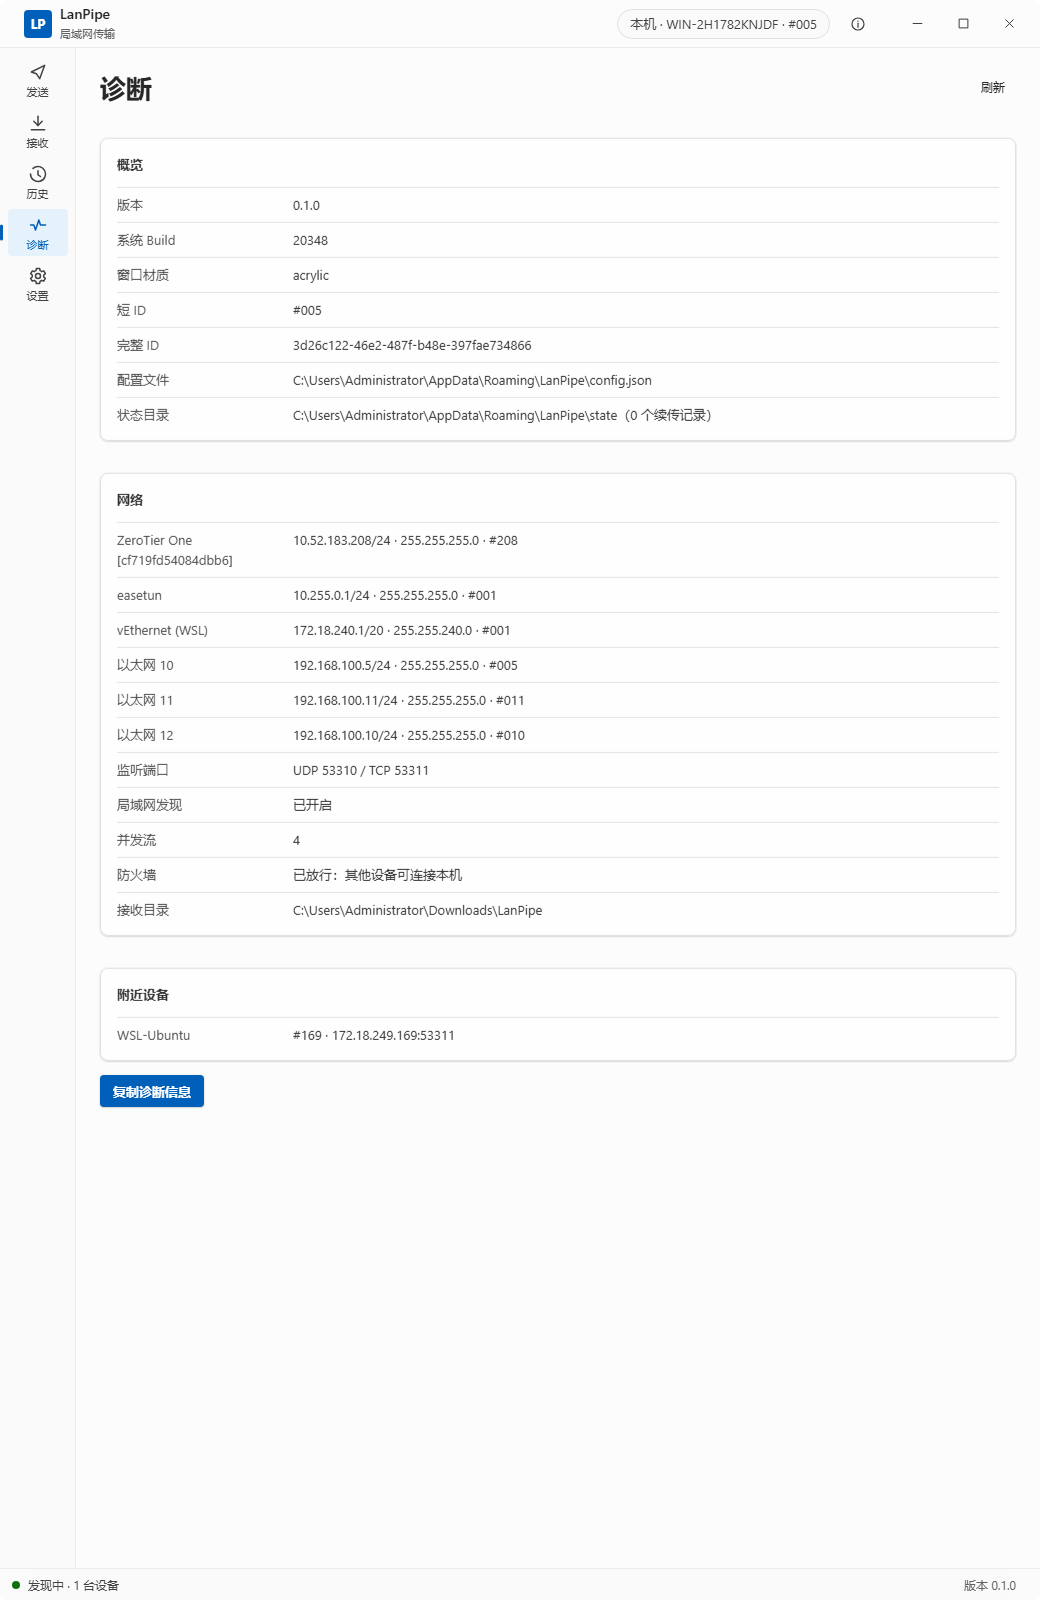
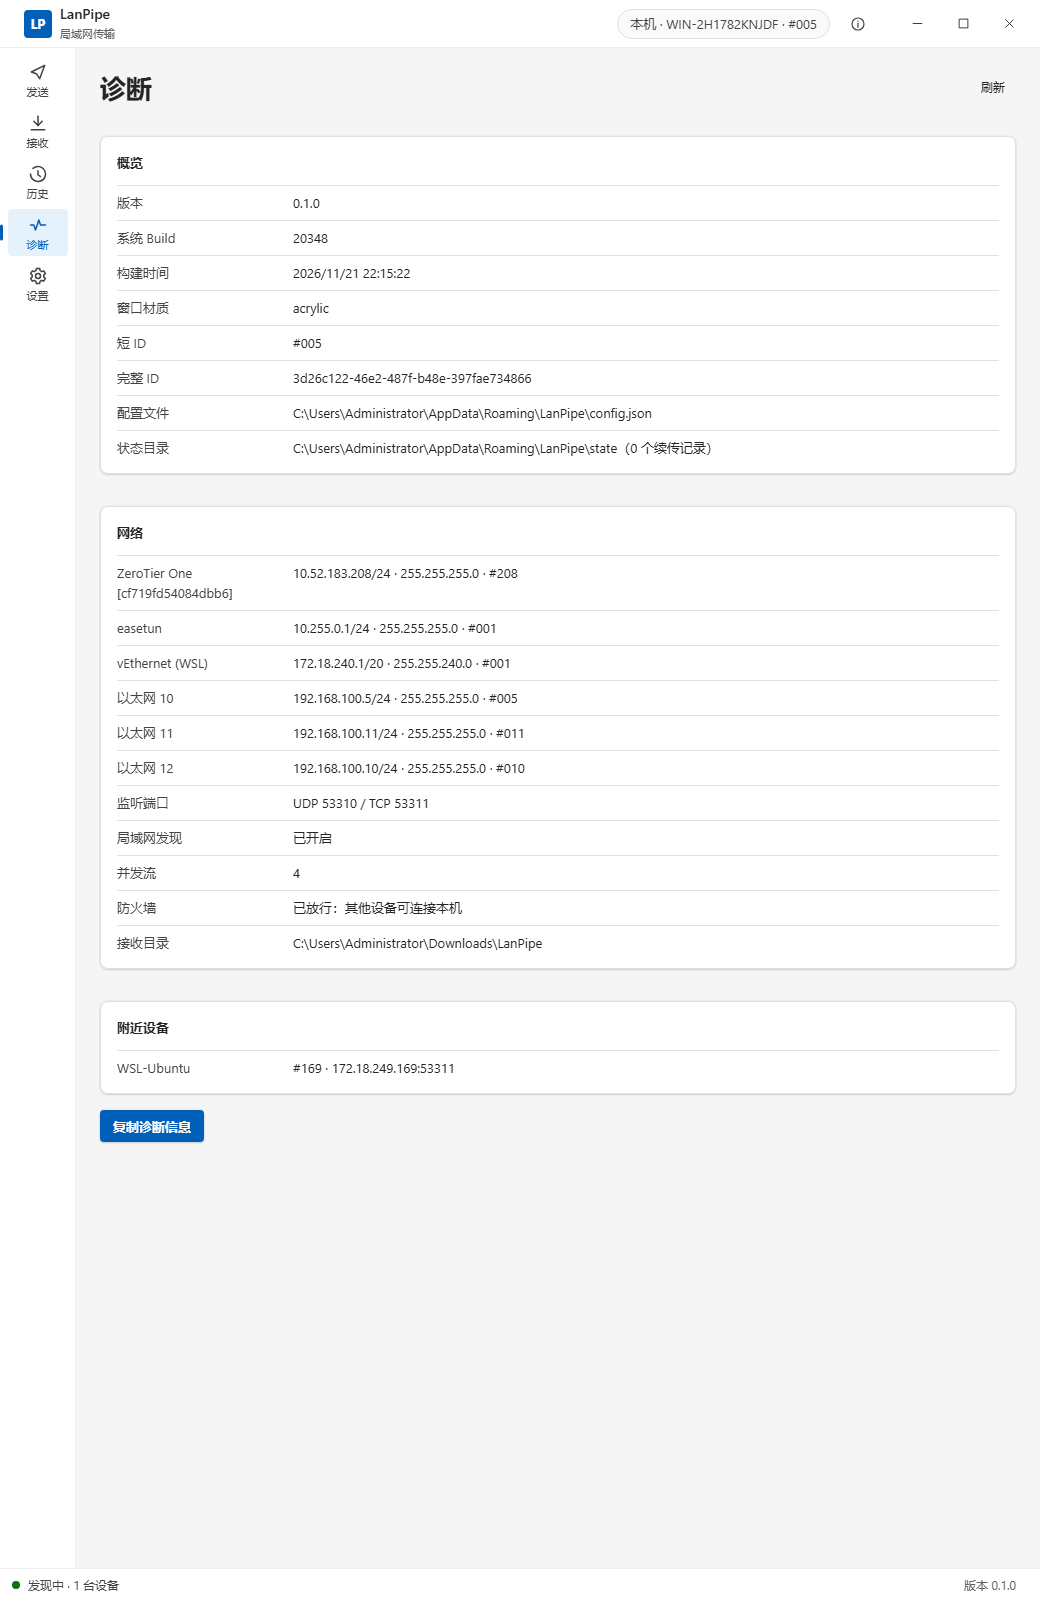
fix(ui): 内容区改实色、标题栏/导航 74%/66% 半透明；诊断页显示构建时间（build.rs 时间戳）

diff --git a/src/styles/materials.css b/src/styles/materials.css
@@ -29,7 +29,7 @@
 
 :root[data-backdrop="mica"] .titlebar,
 :root[data-backdrop="acrylic"] .titlebar {
-  background: color-mix(in srgb, var(--surface) 52%, transparent);
+  background: color-mix(in srgb, var(--surface) 74%, transparent);
   backdrop-filter: saturate(1.6) blur(30px);
   border-bottom-color: color-mix(in srgb, var(--border) 55%, transparent);
   box-shadow: none;
@@ -37,21 +37,21 @@
 
 :root[data-backdrop="mica"] .nav,
 :root[data-backdrop="acrylic"] .nav {
-  background: color-mix(in srgb, var(--surface) 42%, transparent);
+  background: color-mix(in srgb, var(--surface) 66%, transparent);
   border-right-color: color-mix(in srgb, var(--border) 50%, transparent);
   backdrop-filter: saturate(1.4) blur(30px);
 }
 
 :root[data-backdrop="mica"] .content,
 :root[data-backdrop="acrylic"] .content {
-  /* 页面内容层：接近不透明（WinUI 里页面底色基本是不透明的），
-     只留一点材质呼吸感，保证任何壁纸/主题下都像"浅色应用"而不是灰纸 */
-  background: color-mix(in srgb, var(--bg) 90%, transparent);
+  /* 页面内容层：完全不透明。Windows 11 的设置/资源管理器也是"框透明、内容实色"；
+     内容区一旦半透明，深色壁纸下的 Mica 会透成灰纸，文字对比度崩掉。 */
+  background: var(--bg);
 }
 
 :root[data-backdrop="mica"] .statusbar,
 :root[data-backdrop="acrylic"] .statusbar {
-  background: color-mix(in srgb, var(--surface) 42%, transparent);
+  background: color-mix(in srgb, var(--surface) 66%, transparent);
   border-top-color: color-mix(in srgb, var(--border) 50%, transparent);
   backdrop-filter: saturate(1.4) blur(30px);
 }
@@ -98,10 +98,7 @@
     backdrop-filter: saturate(1.8) blur(40px);
   }
 
-  :root[data-backdrop="mica"] .content,
-  :root[data-backdrop="acrylic"] .content {
-    background: color-mix(in srgb, var(--bg) 94%, transparent);
-  }
+
 
   :root[data-backdrop="mica"] .dropzone,
   :root[data-backdrop="acrylic"] .dropzone {

diff --git a/src/views/diagnostics.ts b/src/views/diagnostics.ts
@@ -14,6 +14,7 @@ interface InterfaceRow {
 interface Diagnostics {
   version: string;
   osBuild: number;
+  builtAt?: number;
   backdrop: string;
   configPath?: string | null;
   stateDir: string;
@@ -70,6 +71,7 @@ export function mountDiagnostics(container: HTMLElement): () => void {
         t("diagnostics.overview"),
         row(t("diagnostics.version"), data.version),
         row(t("diagnostics.osBuild"), String(data.osBuild)),
+    row(t("diagnostics.builtAt"), data.builtAt ? new Date(data.builtAt * 1000).toLocaleString() : "-"),
         row(t("diagnostics.backdrop"), data.backdrop || "none"),
         row(t("diagnostics.shortId"), `#${data.shortId ?? "000"}`),
         row(t("diagnostics.deviceId"), data.deviceId),

diff --git a/apps/desktop/src-tauri/src/main.rs b/apps/desktop/src-tauri/src/main.rs
@@ -10,6 +10,9 @@ use lanpipe_net::{send_paths, TransferEvent};
 
 static LOG_FILE: std::sync::OnceLock<String> = std::sync::OnceLock::new();
 
+/// 编译时间（Unix 秒），用于排查用户运行的是哪一版。
+const BUILT_AT_SECS: &str = include_str!(concat!(env!("OUT_DIR"), "/built_at.txt"));
+
 fn log_path() -> std::path::PathBuf {
     let name = LOG_FILE
         .get()
@@ -365,6 +368,7 @@ fn diagnostics(app: tauri::AppHandle) -> Result<serde_json::Value, String> {
 
     Ok(json!({
         "version": env!("CARGO_PKG_VERSION"),
+        "builtAt": BUILT_AT_SECS.trim().parse::<u64>().unwrap_or(0),
         "osBuild": windows_version::OsVersion::current().build,
         "backdrop": backdrop,
         "configPath": config_path,

diff --git a/apps/desktop/src-tauri/build.rs b/apps/desktop/src-tauri/build.rs
@@ -1,3 +1,14 @@
 fn main() {
-    tauri_build::build()
+    tauri_build::build();
+
+    // 编译时间戳：用于确认用户运行的是哪一版（Win11 侧排查"改了没生效"）
+    let out_dir = std::path::PathBuf::from(std::env::var("OUT_DIR").expect("OUT_DIR"));
+    let secs = std::time::SystemTime::now()
+        .duration_since(std::time::UNIX_EPOCH)
+        .map(|d| d.as_secs())
+        .unwrap_or(0);
+    let _ = std::fs::write(out_dir.join("built_at.txt"), secs.to_string());
+    println!("cargo:rerun-if-changed=build.rs");
+    println!("cargo:rerun-if-changed=../../dist");
+    println!("cargo:rerun-if-changed=tauri.conf.json");
 }

diff --git a/AGENT.md b/AGENT.md
@@ -484,9 +484,9 @@ node tools/ui-eval.mjs 9333 "@expr.js"   # 在页面内执行表达式
 | 层 | 材质 | 实现 |
 | --- | --- | --- |
 | 窗口底 | Mica（Windows 11 build ≥ 22000）/ Acrylic（Win10 1809+ build ≥ 17763）/ 纯色 | Tauri `unstable` + `transparent(true)` + `Window::set_effects(EffectsBuilder)`；`LANPIPE_BACKDROP=mica|acrylic|none` 可强制覆盖 |
-| 内容页面 | 90% `--bg`（近不透明，保证任意壁纸下可读） | `.content` |
-| 标题栏 | 52% surface + `blur(30px)` | `.titlebar` |
-| 左侧导航 / 状态栏 | 42% surface + `blur(30px)` | `.nav` / `.statusbar` |
+| 内容页面 | `var(--bg)` 完全不透明（内容区不做透明；材质只在框上） | `.content` |
+| 标题栏 | 74% surface + `blur(30px)` | `.titlebar` |
+| 左侧导航 / 状态栏 | 66% surface + `blur(30px)` | `.nav` / `.statusbar` |
 | 内容卡片 | 92% surface（悬停 96%，无 `backdrop-filter`） | `.card` |
 | 拖入框 | 70% surface | `.dropzone` |
 | 列表行 / 设备卡 | 80% surface | `.list-row` / `.device` |
@@ -589,6 +589,7 @@ node tools/ui-eval.mjs 9333 "@expr.js"   # 在页面内执行表达式
 - 后续可扩展：发现报文、端口连通性自检、一键导出 zip。
 
 ## 16.10 近期补充（2026-11-21 晚）
+- 诊断页概览新增「构建时间」（`build.rs` 写 `OUT_DIR/built_at.txt`，`diagnostics.builtAt`），用于确认客户端实际运行的版本；改完前端必须重新 `cargo build` 才会刷新该时间。
 
 - 导航五页：发送 / 接收 / 历史 / 诊断 / 设置；`src/views/diagnostics.ts`（约 150 行）用一张 `diagnostics` 命令拉全部信息。
 - 历史条目可展开：方向/设备/内容/时间/状态/失败原因；`aria-expanded`，移动端单列。
